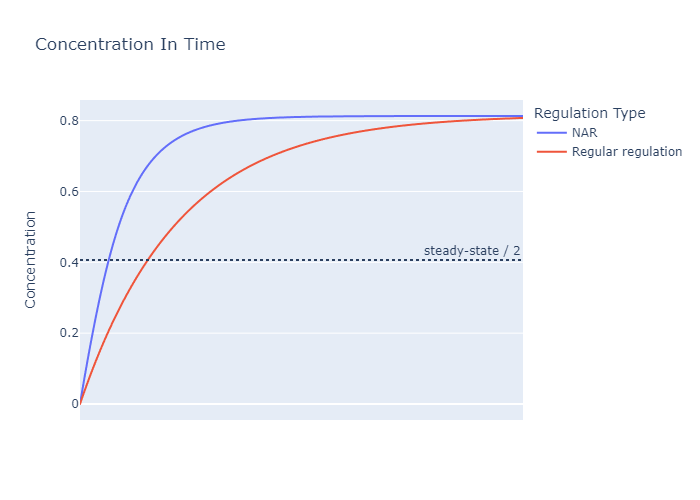
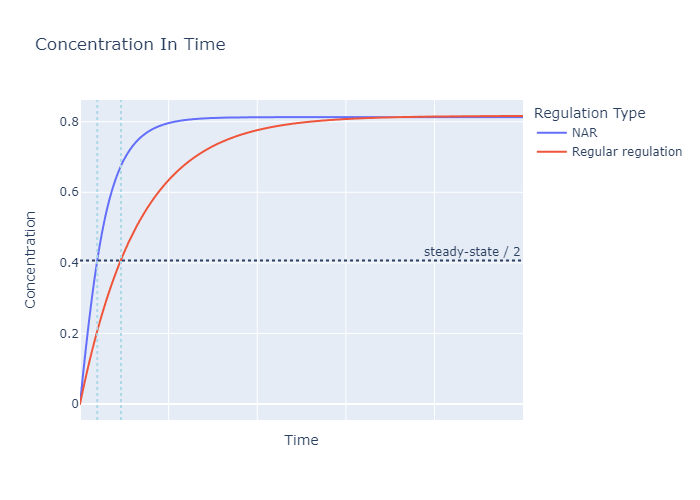
graphs and colors.... whateves time to finish

diff --git a/ex2/q1.py b/ex2/q1.py
@@ -3,11 +3,16 @@ import plotly.express as px
 import pandas as pd
 import os
 from functools import partial
-import plotly
 
 DT = 1e-3
-TOTAL_TIME = 2
+TOTAL_TIME = 2.5
 PLOT_PATH = r"lyx_files\plots"
+
+COLORS = {"X": "purple",
+          "Y": "red",
+          "Z": "green",
+          "signal": "blue"
+}
 
 
 def simulate_negative_autoregulation(max_rate: float, degradation_rate: float, kd: float, hill_coef: int,
@@ -23,23 +28,19 @@ def simulate_negative_autoregulation(max_rate: float, degradation_rate: float, k
 
 
 def calc_nar_change(degradation_rate, hill_coef, kd, max_rate, current_protein_concentration):
-    return max_rate * (kd ** hill_coef / (kd ** hill_coef + (current_protein_concentration ** hill_coef)))\
-            - degradation_rate * current_protein_concentration
+    return max_rate * (kd ** hill_coef / (kd ** hill_coef + (current_protein_concentration ** hill_coef))) \
+           - degradation_rate * current_protein_concentration
 
 
 def simulate_regular_regulation(max_rate: float, degradation_rate: float, total_time: float, dt: float) -> \
         (np.ndarray, np.ndarray):
     time_vals = np.linspace(0, total_time, num=int(total_time / dt))
     return time_vals, calc_regular_production(max_rate, degradation_rate, time_vals)
-    # concentration = np.empty(time_vals.shape)
-    # concentration[0] = 0
-    # for i in range(1, len(time_vals)):
-    #     concentration[i] = concentration[i - 1] + calc_reg_change(max_rate, degradation_rate, concentration[i - 1]) * dt
-    # return time_vals, concentration
 
 
 def calc_regular_production(max_rate, degradation_rate, time_vals):
     return (max_rate / degradation_rate) * (1 - np.exp(-degradation_rate * time_vals))
+
 
 def calc_regular_degradation(initial_amount, degradation_rate, time_vals):
     return initial_amount * np.exp(-degradation_rate * time_vals)
@@ -47,6 +48,8 @@ def calc_regular_degradation(initial_amount, degradation_rate, time_vals):
 
 def calc_reg_change(max_rate, degradation_rate, current_concentration):
     return max_rate - degradation_rate * current_concentration
+
+
 def calc_reg_deg(degradation_rate, current_concentration):
     return -degradation_rate * current_concentration
 
@@ -57,23 +60,23 @@ def plot_rate_balance(degradation_rate: float, max_rate: float, kd: float, hill_
     productions_rates = np.empty((hill_coefs.shape[0], concentration.shape[0]))
     col_names = []
     for i, hill_coef in enumerate(hill_coefs):
-        productions_rates[i] = max_rate * (kd ** hill_coef / (kd**hill_coef + concentration**hill_coef))
+        productions_rates[i] = max_rate * (kd ** hill_coef / (kd ** hill_coef + concentration ** hill_coef))
         col_names.append(f"prod hill coef = {hill_coef}")
     degradation = degradation_rate * concentration
     col_names.append('degradation')
     plt = px.line(
         pd.DataFrame(np.vstack([productions_rates, degradation]).T, index=concentration, columns=col_names),
-                  title='Rate Balance Plot',
-                  labels={
-                      "index": "Concentration",
-                      "value": "Rate",
-                      "variable": "Regulation"
-                  })
+        title='Rate Balance Plot',
+        labels={
+            "index": "Concentration",
+            "value": "Rate",
+            "variable": "Regulation"
+        })
     plt.write_image(os.path.join(PLOT_PATH, fig_name))
     plt.show()
 
 
-def plot_concentrations(data, variable, fig_name, add_half_concentration=True, x_axis_visible=False):
+def plot_concentrations(data, variable, fig_name, add_half_concentration=True):
     plt = px.line(data,
                   title='Concentration In Time',
                   labels={
@@ -84,26 +87,39 @@ def plot_concentrations(data, variable, fig_name, add_half_concentration=True, x
                   )
     if add_half_concentration:
         plt.add_hline(y=data.iloc[-1][0] / 2, line_dash="dot", annotation_text="steady-state / 2")
-    plt.update_xaxes(visible=x_axis_visible)
+        half_val = data.iloc[-1] / 2
+        half_times = np.abs(data - half_val).idxmin(axis=0)
+        for half_time in half_times:
+            plt.add_vline(x=half_time, line_dash="dot", line_color="LightBlue")
+    plt.update_xaxes(showticklabels=False)
     plt.show()
     plt.write_image(os.path.join(PLOT_PATH, fig_name))
 
 
-def plot_concentrations_q4(data, variable, fig_name, add_half_concentration=True, x_axis_visible=False):
-    fig = plotly.subplots.make_subplots(rows=3, cols=1)
+def plot_concentrations_q4(data, fig_name, title, **kwargs):
     plt = px.line(data,
-                  title='Concentration In Time',
+                  title=title,
                   labels={
                       "index": "Time",
                       "value": "Concentration",
-                      "variable": variable
+                      "variable": "Concentration"
                   }
                   )
-    if add_half_concentration:
-        plt.add_hline(y=data.iloc[-1][0] / 2, line_dash="dot", annotation_text="steady-state / 2")
-    plt.update_xaxes(visible=x_axis_visible)
+    plt.for_each_trace(_set_color)
+    plt.update_xaxes(showticklabels=False)
+    plt.update_yaxes(showticklabels=False)
+    if "hlines" in kwargs:
+        for attrs in kwargs["hlines"]:
+            plt.add_hline(**attrs)
+    if "vlines" in kwargs:
+        for attrs in kwargs["vlines"]:
+            plt.add_vline(**attrs, line_color="LightBlue")
     plt.show()
     plt.write_image(os.path.join(PLOT_PATH, fig_name))
+
+
+def _set_color(shape):
+    shape.line.color = COLORS[shape.name]
 
 
 def q1a(kd, hill_coef, max_rate, degradation_rate):
@@ -123,9 +139,9 @@ def q1b(kd, max_rate, degradation_rate):
     plot_rate_balance(degradation_rate, max_rate, kd, hill_coefs, 1.5, 1000, "q1b2.png")
 
 
-def _q4_calc_iteratively(prod_bool_vec, bound_prod_change_func, bound_deg_change_func, dt):
+def _q4_calc_iteratively(prod_bool_vec, bound_prod_change_func, bound_deg_change_func, dt, init_val=0.):
     vals = np.empty(prod_bool_vec.shape, dtype=float)
-    vals[0] = 0.
+    vals[0] = init_val
     for i in range(1, len(vals)):
         prev = vals[i - 1]
         if prod_bool_vec[i]:
@@ -148,9 +164,9 @@ def _prep_nar_partials(max_prod_rate, deg_rate, hill_coef, kd):
     return prod, deg
 
 
-def _create_reg_data_series(prod_bool, max_rate, deg_rate, dt):
+def _create_reg_data_series(prod_bool, max_rate, deg_rate, dt, init_val=0.):
     prod_func, deg_func = _prep_reg_paritals(max_rate, deg_rate)
-    return _q4_calc_iteratively(prod_bool, prod_func, deg_func, dt)
+    return _q4_calc_iteratively(prod_bool, prod_func, deg_func, dt, init_val)
 
 
 def _create_nar_data_series(prod_bool, max_rate, deg_rate, hill_coef, kd, dt):
@@ -159,19 +175,23 @@ def _create_nar_data_series(prod_bool, max_rate, deg_rate, hill_coef, kd, dt):
 
 
 def q4a(kyz, y_max_rate, y_deg_rate, z_max_rate, z_deg_rate, sig_start_time, sig_stop_time, total_time, dt):
-    assert sig_start_time/dt + 2 < sig_stop_time/dt < total_time/dt
+    assert sig_start_time / dt + 2 < sig_stop_time / dt < total_time / dt
     time_vals = np.linspace(0, total_time, num=int(total_time / dt))
     signal_time_vals = (time_vals > sig_start_time) & (time_vals < sig_stop_time)
     y = _create_reg_data_series(signal_time_vals, y_max_rate, y_deg_rate, dt)
     z_prod_time_vals = ((y > kyz) & signal_time_vals)
     z = _create_reg_data_series(z_prod_time_vals, z_max_rate, z_deg_rate, dt)
-    signal = np.where(signal_time_vals, np.max(np.hstack((y, z))) * 1.2, 0.)
+    hlines = [dict(y=kyz, line_dash="dash", annotation_text="kyz", annotation_position="top left")]
+    vlines = [dict(x=z_prod_time_vals.argmax(), line_dash="dot")]
+    signal = np.where(signal_time_vals, np.max(np.hstack((y, z))) * 1.1, 0.)
     data = pd.DataFrame(np.vstack((y, z, signal)).T, columns=["Y", "Z", "signal"])
-    plot_concentrations(data, "concentration", "q4a.png", False)
+    plot_concentrations_q4(data, "q4a.png", "X Saturated, AND Gate for Y Level and Signal",
+                           hlines=hlines, vlines=vlines)
 
 
-def q4b(kyz, kxy, kxz, x_max_rate, x_deg_rate, y_max_rate, y_deg_rate, z_max_rate, z_deg_rate, sig_start_time, sig_stop_time, total_time, dt):
-    assert sig_start_time/dt + 2 < sig_stop_time/dt < total_time/dt
+def q4b(kyz, kxy, kxz, x_max_rate, x_deg_rate, y_max_rate, y_deg_rate, z_max_rate, z_deg_rate, sig_start_time,
+        sig_stop_time, total_time, dt):
+    assert sig_start_time / dt + 2 < sig_stop_time / dt < total_time / dt
     time_vals = np.linspace(0, total_time, num=int(total_time / dt))
     signal_time_vals = (time_vals > sig_start_time) & (time_vals < sig_stop_time)
     x = _create_reg_data_series(signal_time_vals, x_max_rate, x_deg_rate, dt)
@@ -179,9 +199,17 @@ def q4b(kyz, kxy, kxz, x_max_rate, x_deg_rate, y_max_rate, y_deg_rate, z_max_rat
     y = _create_reg_data_series(y_prd_time, y_max_rate, y_deg_rate, dt)
     z_prod_time_vals = ((y > kyz) & (x > kxz))
     z = _create_reg_data_series(z_prod_time_vals, z_max_rate, z_deg_rate, dt)
-    signal = np.where(signal_time_vals, np.max(np.hstack((x, y, z))) * 1.2, 0.)
+    hlines = [dict(y=kyz, line_dash="dash", annotation_text="kyz", annotation_position="top left"),
+              dict(y=kxy, line_dash="dash", annotation_text="kxy", annotation_position="top left"),
+              dict(y=kxz, line_dash="dash", annotation_text="kzx", annotation_position="top left")]
+    vlines = [dict(x=np.where(y == 0., np.inf, y).argmin(), line_dash="dot"),
+              dict(x=np.where(z == 0., np.inf, z).argmin(), line_dash="dot"),
+              dict(x=y.argmax(), line_dash="dot"),
+              dict(x=z.argmax(), line_dash="dot")]
+    signal = np.where(signal_time_vals, np.max(np.hstack((x, y, z))) * 1.1, 0.)
     data = pd.DataFrame(np.vstack((x, y, z, signal)).T, columns=["X", "Y", "Z", "signal"])
-    plot_concentrations(data, "concentration", "q4b.png", False)
+    plot_concentrations_q4(data, "q4b.png", "X Buildup Upon Signal, AND Gate",
+                           hlines=hlines, vlines=vlines)
 
 
 def q4c(kyz, y_max_rate, y_deg_rate, z_max_rate, z_deg_rate, sig_start_time, sig_stop_time, total_time, dt):
@@ -191,13 +219,17 @@ def q4c(kyz, y_max_rate, y_deg_rate, z_max_rate, z_deg_rate, sig_start_time, sig
     y = _create_reg_data_series(signal_time_vals, y_max_rate, y_deg_rate, dt)
     z_prod_time_vals = ((y > kyz) | signal_time_vals)
     z = _create_reg_data_series(z_prod_time_vals, z_max_rate, z_deg_rate, dt)
-    signal = np.where(signal_time_vals, np.max(np.hstack((y, z))) * 1.2, 0.)
+    hlines = [dict(y=kyz, line_dash="dash", annotation_text="kyz", annotation_position="top left")]
+    vlines = [dict(x=z.argmax(), line_dash="dot")]
+    signal = np.where(signal_time_vals, np.max(np.hstack((y, z))) * 1.1, 0.)
     data = pd.DataFrame(np.vstack((y, z, signal)).T, columns=["Y", "Z", "signal"])
-    plot_concentrations(data, "concentration", "q4c.png", False)
+    plot_concentrations_q4(data, "q4c.png", "Saturated X Activated Upon signal, OR gate",
+                           hlines=hlines, vlines=vlines)
 
 
-def q4d(kyz, kxy, kxz, x_max_rate, x_deg_rate, y_max_rate, y_deg_rate, z_max_rate, z_deg_rate, sig_start_time, sig_stop_time, total_time, dt):
-    assert sig_start_time/dt + 2 < sig_stop_time/dt < total_time/dt
+def q4d(kyz, kxy, kxz, x_max_rate, x_deg_rate, y_max_rate, y_deg_rate, z_max_rate, z_deg_rate, sig_start_time,
+        sig_stop_time, total_time, dt):
+    assert sig_start_time / dt + 2 < sig_stop_time / dt < total_time / dt
     time_vals = np.linspace(0, total_time, num=int(total_time / dt))
     signal_time_vals = (time_vals > sig_start_time) & (time_vals < sig_stop_time)
     x = _create_reg_data_series(signal_time_vals, x_max_rate, x_deg_rate, dt)
@@ -205,26 +237,38 @@ def q4d(kyz, kxy, kxz, x_max_rate, x_deg_rate, y_max_rate, y_deg_rate, z_max_rat
     y = _create_reg_data_series(y_prd_time, y_max_rate, y_deg_rate, dt)
     z_prod_time_vals = ((y > kyz) & (x < kxz))
     z = _create_reg_data_series(z_prod_time_vals, z_max_rate, z_deg_rate, dt)
-    signal = np.where(signal_time_vals, np.max(np.hstack((x, y, z))) * 1.2, 0.)
+    z_changes = ((z_prod_time_vals ^ np.roll(z_prod_time_vals, 1))[1:-1]).nonzero()[0]
+    y_changes = ((y_prd_time ^ np.roll(y_prd_time, 1))[1:-1]).nonzero()[0]
+    hlines = [dict(y=kyz, line_dash="dash", annotation_text="kyz", annotation_position="top left"),
+              dict(y=kxy, line_dash="dash", annotation_text="kxy", annotation_position="top left"),
+              dict(y=kxz, line_dash="dash", annotation_text="kzx", annotation_position="top left")]
+    vlines = [dict(x=change, line_dash="dot") for change in np.hstack((z_changes, y_changes))]
+    signal = np.where(signal_time_vals, np.max(np.hstack((x, y, z))) * 1.1, 0.)
     data = pd.DataFrame(np.vstack((x, y, z, signal)).T, columns=["X", "Y", "Z", "signal"])
-    plot_concentrations(data, "concentration", "q4d.png", False)
+    plot_concentrations_q4(data, "q4d.png", "Incoherent Type 3, X Buildup Upon Signal",
+                           hlines=hlines, vlines=vlines)
 
 
-def q4e(kyz, kxy, kxz, x_max_rate, x_deg_rate, hill_coef, kd, y_max_rate, y_deg_rate, z_max_rate, z_deg_rate, sig_start_time, sig_stop_time, total_time, dt):
-    assert sig_start_time/dt + 2 < sig_stop_time/dt < total_time/dt
+def q4e(kyz, kxy, kxz, x_max_rate, x_deg_rate, hill_coef, kd, y_max_rate, y_deg_rate, z_max_rate, z_deg_rate,
+        sig_start_time, sig_stop_time, total_time, dt):
+    assert sig_start_time / dt + 2 < sig_stop_time / dt < total_time / dt
     time_vals = np.linspace(0, total_time, num=int(total_time / dt))
     signal_time_vals = (time_vals > sig_start_time) & (time_vals < sig_stop_time)
     x = _create_nar_data_series(signal_time_vals, x_max_rate, x_deg_rate, hill_coef, kd, dt)
     y_prd_time = x > kxy
     y = _create_reg_data_series(y_prd_time, y_max_rate, y_deg_rate, dt)
     z_prod_time_vals = ((y < kyz) & (x < kxz))
-    z = _create_reg_data_series(z_prod_time_vals, z_max_rate, z_deg_rate, dt)
-    signal = np.where(signal_time_vals, np.max(np.hstack((x, y, z))) * 1.2, 0.)
+    z = _create_reg_data_series(z_prod_time_vals, z_max_rate, z_deg_rate, dt, z_max_rate / z_deg_rate)
+    z_changes = ((z_prod_time_vals ^ np.roll(z_prod_time_vals, 1))[1:-1]).nonzero()[0]
+    y_changes = ((y_prd_time ^ np.roll(y_prd_time, 1))[1:-1]).nonzero()[0]
+    hlines = [dict(y=kyz, line_dash="dash", annotation_text="kyz", annotation_position="top left"),
+              dict(y=kxy, line_dash="dash", annotation_text="kxy", annotation_position="top left"),
+              dict(y=kxz, line_dash="dash", annotation_text="kzx", annotation_position="top left")]
+    vlines = [dict(x=change, line_dash="dot") for change in np.hstack((z_changes, y_changes))]
+    signal = np.where(signal_time_vals, np.max(np.hstack((x, y, z))) * 1.1, 0.)
     data = pd.DataFrame(np.vstack((x, y, z, signal)).T, columns=["X", "Y", "Z", "signal"])
-    plot_concentrations(data, "concentration", "q4e.png", False)
-
-
-
+    plot_concentrations_q4(data, "q4e.png", "Coherent Type 3 With Negative Auto-Regulation on X",
+                           hlines=hlines, vlines=vlines)
 
 
 if __name__ == "__main__":
@@ -238,7 +282,8 @@ if __name__ == "__main__":
     q1a(kd, hill_coef, max_rate, degradation_rate)
     q1b(kd, max_rate, degradation_rate)
     q4a(kyz_4a, max_rate, degradation_rate, max_rate, degradation_rate, 0.2, 1.2, TOTAL_TIME, DT)
-    q4b(kyz_4a, kxy_4b, kxz_4b / 2, max_rate / 1.5, degradation_rate * 2, max_rate, degradation_rate * 1.5, max_rate, degradation_rate, 0.2, 1.2, TOTAL_TIME, DT)
+    q4b(kyz_4a * 1.2, kxy_4b, kxz_4b / 3, max_rate / 1.5, degradation_rate * 2, max_rate / 2, degradation_rate, max_rate/ 1.3, degradation_rate, 0.2, 1.2, TOTAL_TIME, DT)
     q4c(kyz_4a, max_rate, degradation_rate * 1.5, max_rate, degradation_rate, 0.2, 1.2, TOTAL_TIME, DT)
     q4d(kyz_4a / 2, kxy_4b / 4, kxz_4b - 0.2, max_rate / 1.5, degradation_rate * 2, max_rate, degradation_rate * 1.5, max_rate, degradation_rate, 0.2, 1.2, TOTAL_TIME, DT)
-    q4e(kyz_4a, kxy_4b, kxz_4b, max_rate*1.5, degradation_rate * 2, hill_coef, kd, max_rate, degradation_rate * 1.5, max_rate, degradation_rate, 0.2, 1.2, TOTAL_TIME, DT)
+    q4e(kyz_4a, kxy_4b, kxz_4b, max_rate * 1.5, degradation_rate * 2, hill_coef, kd, max_rate / 1.5, degradation_rate,
+        max_rate / 3, degradation_rate, 0.2, 1.2, TOTAL_TIME, DT)
